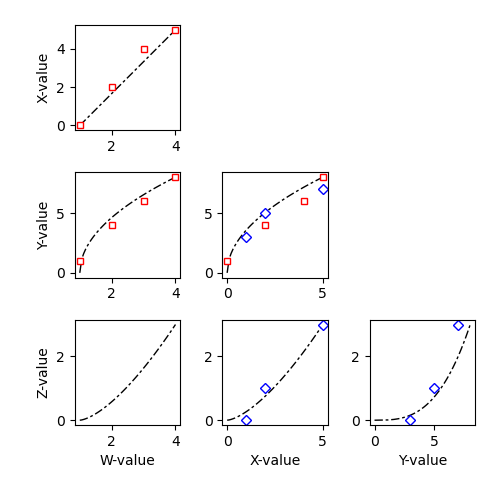
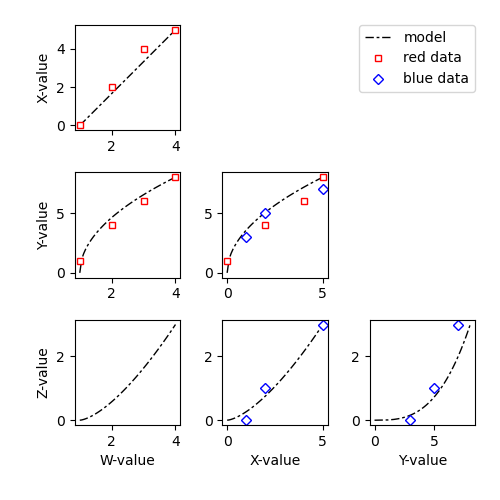
Add legend() method

Changed region(s): [[0.81, 0.06, 0.96, 0.18], [0.72, 0.06, 0.78, 0.18]]

diff --git a/stairplots.py b/stairplots.py
@@ -9,8 +9,8 @@ __author__    = 'Mathieu Daëron'
 __contact__   = 'daeron@lsce.ipsl.fr'
 __copyright__ = 'Copyright (c) 2023 Mathieu Daëron'
 __license__   = 'MIT License - https://opensource.org/licenses/MIT'
-__date__      = '2023-10-03'
-__version__   = '1.3'
+__date__      = '2023-10-05'
+__version__   = '1.4'
 
 
 import matplotlib.pyplot as _ppl
@@ -36,6 +36,7 @@ class Stairplots():
 		self.fields = [_ for _ in fields]
 		self.labels = [_ for _ in fields] if labels is None else [_ for _ in labels]
 
+		self.subplots_adjust = subplots_adjust
 		_ppl.subplots_adjust(*subplots_adjust)
 
 		N = len(labels)
@@ -54,6 +55,9 @@ class Stairplots():
 					_ppl.ylabel(labels[j])
 
 		self.axes = {(self.fields[i], self.fields[j]): axes[(i, j)] for i, j in axes}
+		self.legend_items = []
+		self.fig = _ppl.gcf()
+
 
 	def plot(self, datadict, *args, **kwargs):
 		"""
@@ -71,7 +75,27 @@ class Stairplots():
 		"""
 		indices = sorted([self.fields.index(_) for _ in datadict])
 		fields = [self.fields[_] for _ in indices]
-		return [
-			self.axes[(fi, fj)].plot(datadict[fi], datadict[fj], *args, **kwargs)
-			for _, fi in enumerate(fields[:-1]) for fj in fields[_+1:]
-			]
+
+		result = []
+		for _, fi in enumerate(fields[:-1]):
+			for fj in fields[_+1:]:
+				result += self.axes[(fi, fj)].plot(datadict[fi], datadict[fj], *args, **kwargs)
+
+		if not result[0].get_label().startswith('_'):
+			self.legend_items.append(result[0])
+
+		return result
+
+
+	def legend(self, *args, **kwargs):
+		return _ppl.legend(
+			self.legend_items,
+			[_.get_label() for _ in self.legend_items],
+			*args,
+			**(kwargs | {
+				'loc': 'upper right',
+				'bbox_to_anchor': self.subplots_adjust[2:4],
+				'bbox_transform': self.fig.transFigure,
+				'borderaxespad': 0,
+				}),
+			)

diff --git a/stairplots_example.py b/stairplots_example.py
@@ -4,17 +4,6 @@ import numpy as np
 from stairplots import *
 import matplotlib.pyplot as ppl
 
-data_1 = dict(
-    w = np.array([1, 2, 3, 4]),
-    x = np.array([0, 2, 4, 5]),
-    y = np.array([1, 4, 6, 8]),
-    )
-
-data_2 = dict(
-    x = np.array([1, 2, 5]),
-    y = np.array([3, 5, 7]),
-    z = np.array([0, 1, 3]),
-    )
 
 t = np.linspace(0, 1)
 model = dict(
@@ -24,16 +13,30 @@ model = dict(
     z = 3 * t**1.5,
     )
 
+red_data = dict(
+    w = np.array([1, 2, 3, 4]),
+    x = np.array([0, 2, 4, 5]),
+    y = np.array([1, 4, 6, 8]),
+    )
 
-ppl.figure(figsize = (5,5))
+blue_data = dict(
+    x = np.array([1, 2, 5]),
+    y = np.array([3, 5, 7]),
+    z = np.array([0, 1, 3]),
+    )
+
+
+fig = ppl.figure(figsize = (5,5))
 
 sp = Stairplots(
     fields = ['w', 'x', 'y', 'z'],
     labels = ['W-value', 'X-value', 'Y-value', 'Z-value'],
     )
 
-sp.plot(model, 'k-', lw = 1, dashes = (6,2,2,2))
-sp.plot(data_1, 'ws', mec = 'r', mew = 1, ms = 5)
-sp.plot(data_2, 'wD', mec = 'b', mew = 1, ms = 5)
+sp.plot(model,     'k-', lw = 1, dashes = (6,2,2,2), label = 'model')
+sp.plot(red_data,  'ws', mec = 'r', mew = 1, ms = 5, label = 'red data')
+sp.plot(blue_data, 'wD', mec = 'b', mew = 1, ms = 5, label = 'blue data')
+
+sp.legend()
 
 ppl.savefig('stairplots.png')
